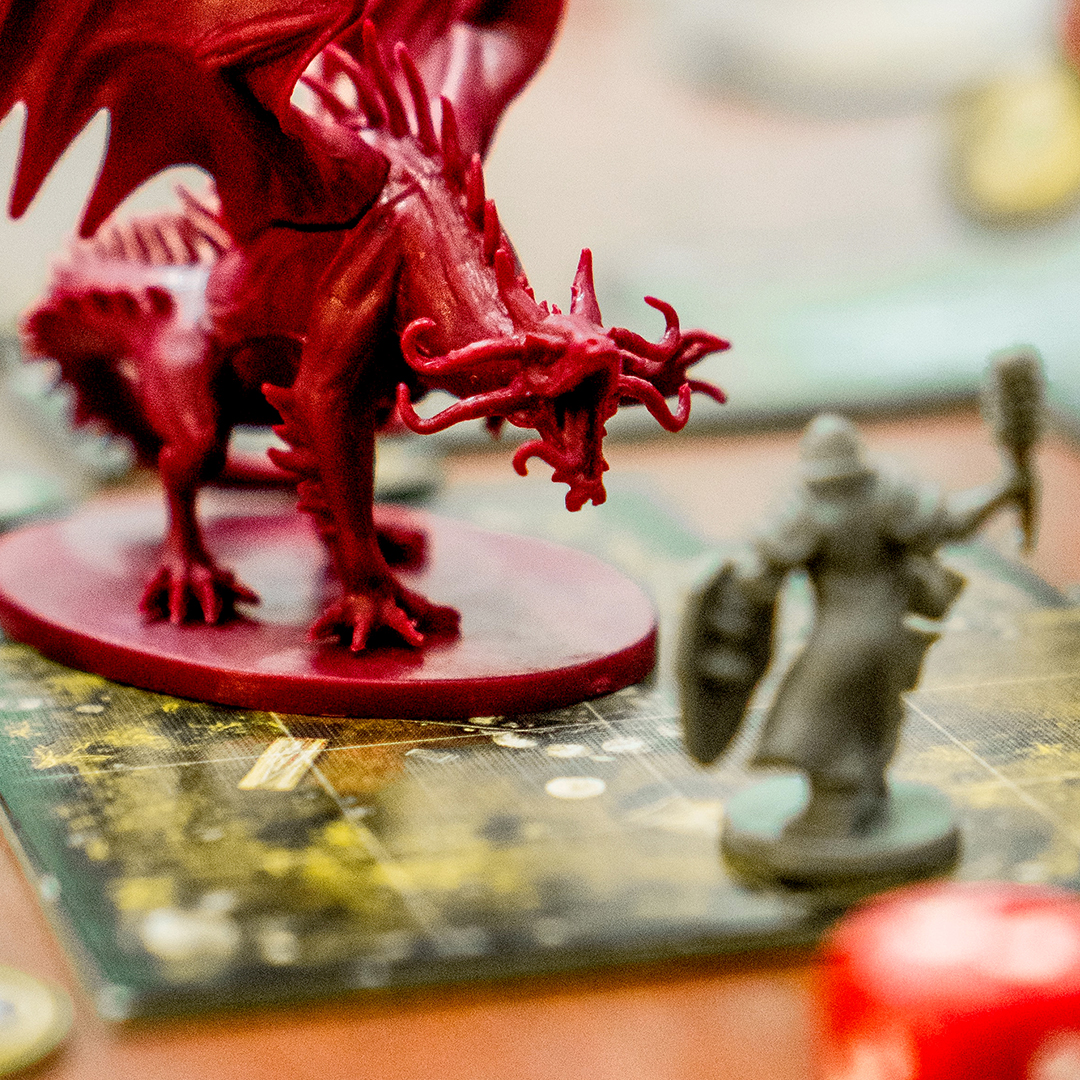
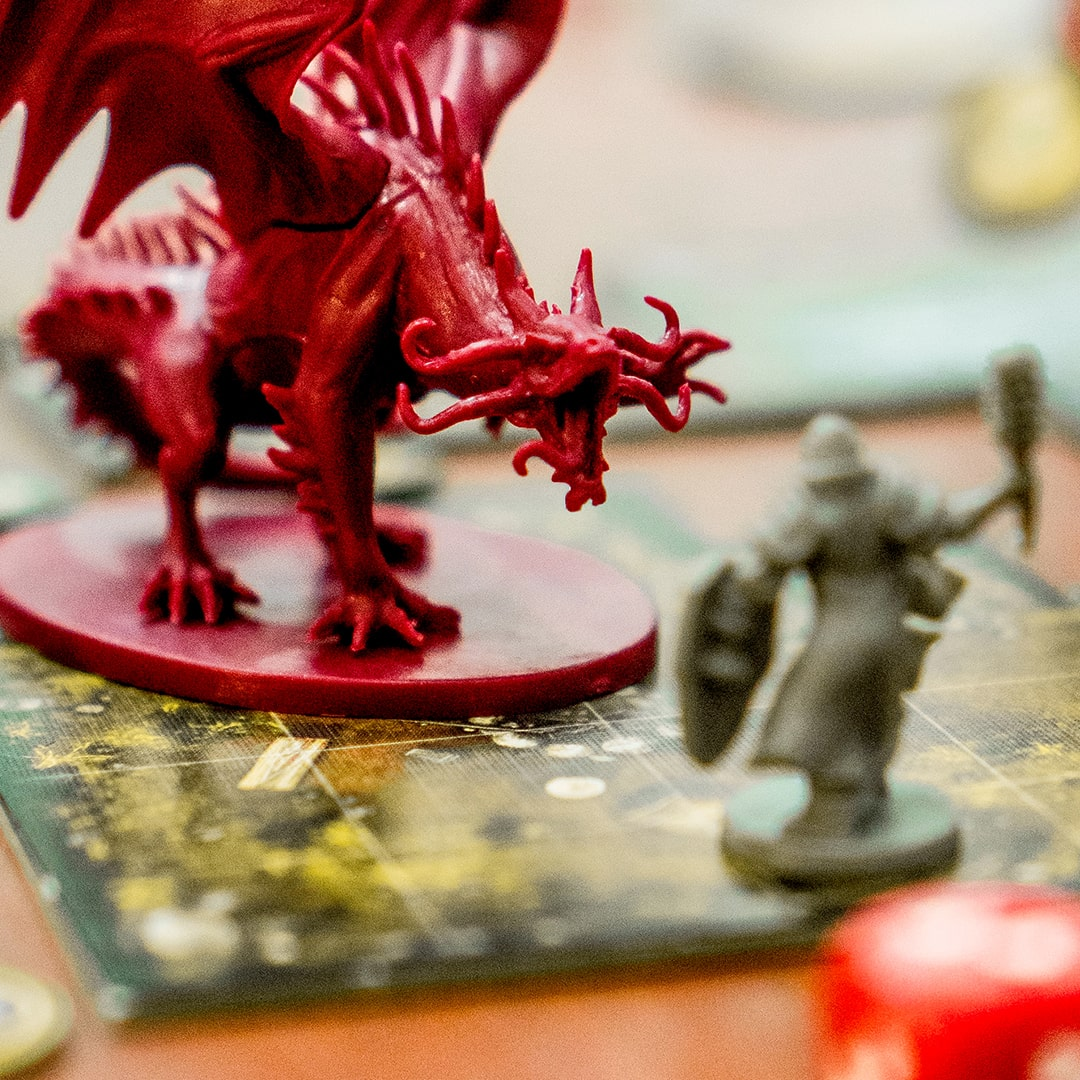
added 5 latest posts feature images

diff --git a/_posts/2020-07-22-thinking_beyond_roslyn_source_generators_and_aspec.html b/_posts/2020-07-22-thinking_beyond_roslyn_source_generators_and_aspec.html
@@ -6,7 +6,7 @@ date: 2020-07-22 10:15:00 +02:00
 categories: []
 permalink: /post/thinking-beyond-roslyn-source-generators-and-aspect-oriented-programming.html
 author: "Gael Fraiteur"
-image: /assets/images/blog/2020-07-22-thinking_beyond_roslyn_source_generators_and_aspec/roslyn source generators.png
+image: /assets/images/blog/2020-07-22-thinking_beyond_roslyn_source_generators_and_aspec/thinking-beyond-roslyn-source-generators and-aspect-oriented-programming-min.jpg
 ---
 <p>When I first heard about Roslyn source generators in the&nbsp;<a href="https://devblogs.microsoft.com/dotnet/introducing-c-source-generators/" target="_blank">announcement post,</a>&nbsp;I first wanted to write a blog post comparing them to aspect-oriented programming. This blog post progressively turned into a philosophical essay. What is programming? What are programming languages? What is design itself? These questions are seldom asked, and philosophical essays are not a popular genre in our industry. Yet, I think they are extremely relevant.</p>
 

diff --git a/_posts/2020-06-05-auto_implement_equals_and_gethashcode_with_postsha.html b/_posts/2020-06-05-auto_implement_equals_and_gethashcode_with_postsha.html
@@ -6,7 +6,7 @@ date: 2020-06-05 11:07:00 +02:00
 categories: []
 permalink: /post/auto-implement-equals-and-gethashcode-with-postsharp-community.html
 author: "Petr Hudeček"
-image: /assets/images/blog/2020-06-05-auto_implement_equals_and_gethashcode_with_postsha/aligned.png
+image: /assets/images/blog/2020-06-05-auto_implement_equals_and_gethashcode_with_postsha/auto-implement-equals-and-gethashcode-with-postsharp-community-min.jpg
 ---
 <p>Recently we released <a href="https://github.com/postsharp/PostSharp.Community.StructuralEquality">PostSharp.Community.StructuralEquality</a>. If you add <a href="https://www.nuget.org/packages/PostSharp.Community.StructuralEquality/">the NuGet package</a> to your project and then add the new attribute <em>[StructuralEquality]</em> to your classes, a field-by-field implementation of Equals and GetHashCode will be added to your classes automatically during compilation.</p>
 

diff --git a/_posts/2020-06-16-a_better_default_tostring_with_postsharp_community.html b/_posts/2020-06-16-a_better_default_tostring_with_postsharp_community.html
@@ -6,6 +6,7 @@ date: 2020-06-16 09:40:00 +02:00
 categories: [Community]
 permalink: /post/a-better-default-tostring-with-postsharp-community.html
 author: "Petr Hudeček"
+image: /assets/images/blog/2020-06-16-a_better_default_tostring_with_postsharp_community/a-better-default-tostring-with-postsharp-community-min.jpg
 ---
 <p>During debugging and prototyping, we often rely on the ToString method to know what an object looks like. This works well for built-in types like integer and string but becomes less helpful for classes and structs unless we override the ToString method manually. Unfortunately, this requires a lot of boilerplate. In this article, I introduce <a href="https://github.com/postsharp/PostSharp.Community.ToString">PostSharp.Community.ToString</a>, a free and open-source extension to PostSharp that automatically generates the ToString method for you.</p>
 

diff --git a/_posts/2020-05-27-pack_your_net_program_to_a_single_exe_file_with_po.html b/_posts/2020-05-27-pack_your_net_program_to_a_single_exe_file_with_po.html
@@ -6,7 +6,7 @@ date: 2020-05-27 05:41:00 +02:00
 categories: [General]
 permalink: /post/pack-your-net-program-to-a-single-exe-file-with-postsharp-community.html
 author: "Petr Hudeček"
-image: /assets/images/blog/2020-05-27-pack_your_net_program_to_a_single_exe_file_with_po/netexe2.png
+image: /assets/images/blog/2020-05-27-pack_your_net_program_to_a_single_exe_file_with_po/pack-your-net-program-to-a-single-exe-file-with-postsharp-community-min.jpg
 ---
 <p>Last month, we released <a href="https://github.com/postsharp/PostSharp.Community.Packer">PostSharp.Community.Packer</a>, a free and open-source tool that you can use to pack your .NET Framework application into a single .exe file for distribution.</p>
 
